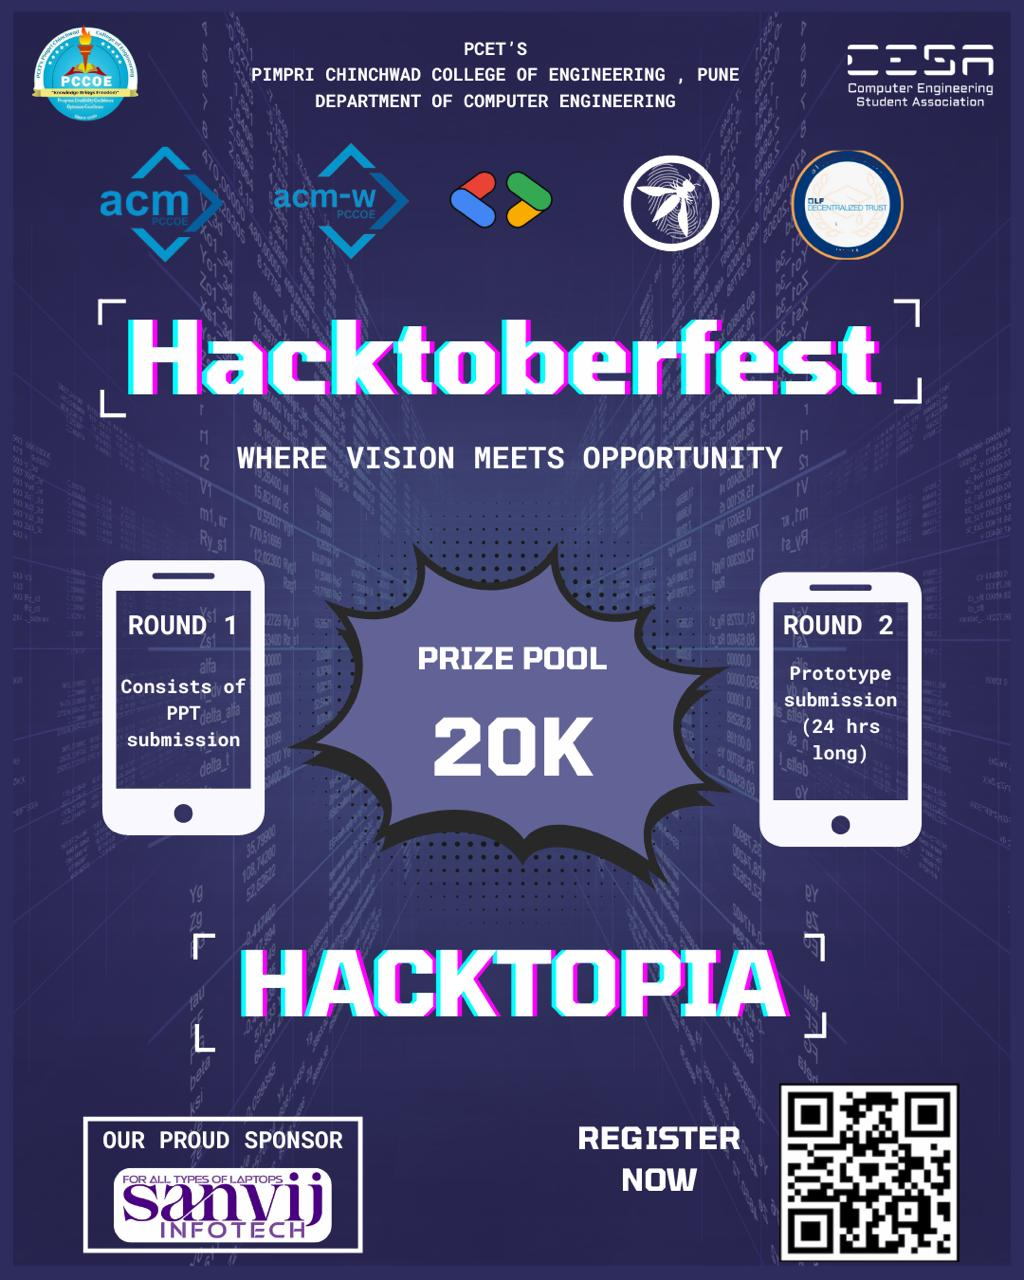
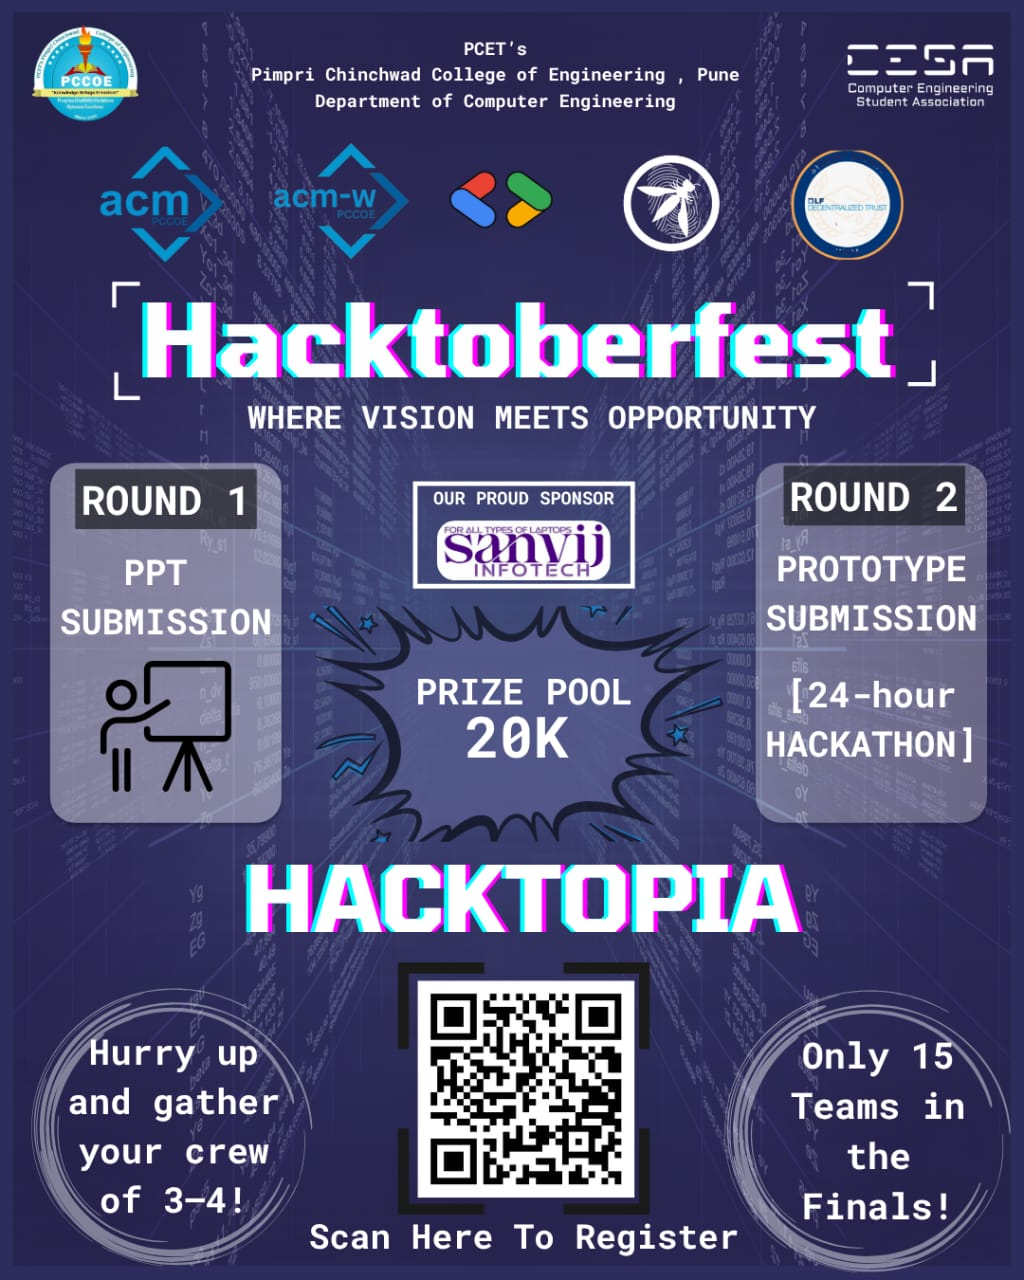
description for hacktopia

diff --git a/src/pages/Eventspage.js b/src/pages/Eventspage.js
@@ -13,8 +13,8 @@ const EventsPage = () => {
     {
       title: "Hacktopia",
       img: "/assets/Hacktopia.jpg",
-      description: "Show your coding skills and win exciting prizes!",
-      formLink: "",
+      description: "Get ready for an intense 24-hour hackathon!",
+      formLink: "https://unstop.com/p/hacktopia-2025-pimpri-chinchwad-college-of-engineering-pccoe-pune-1570083?utm_campaign=site-emails&utm_medium=d2c-automated&utm_source=congratulations-your-listing-for-hacktopia-2025-is-complete",
       gradient: "from-indigo-500 to-purple-500",
     },
   ];
